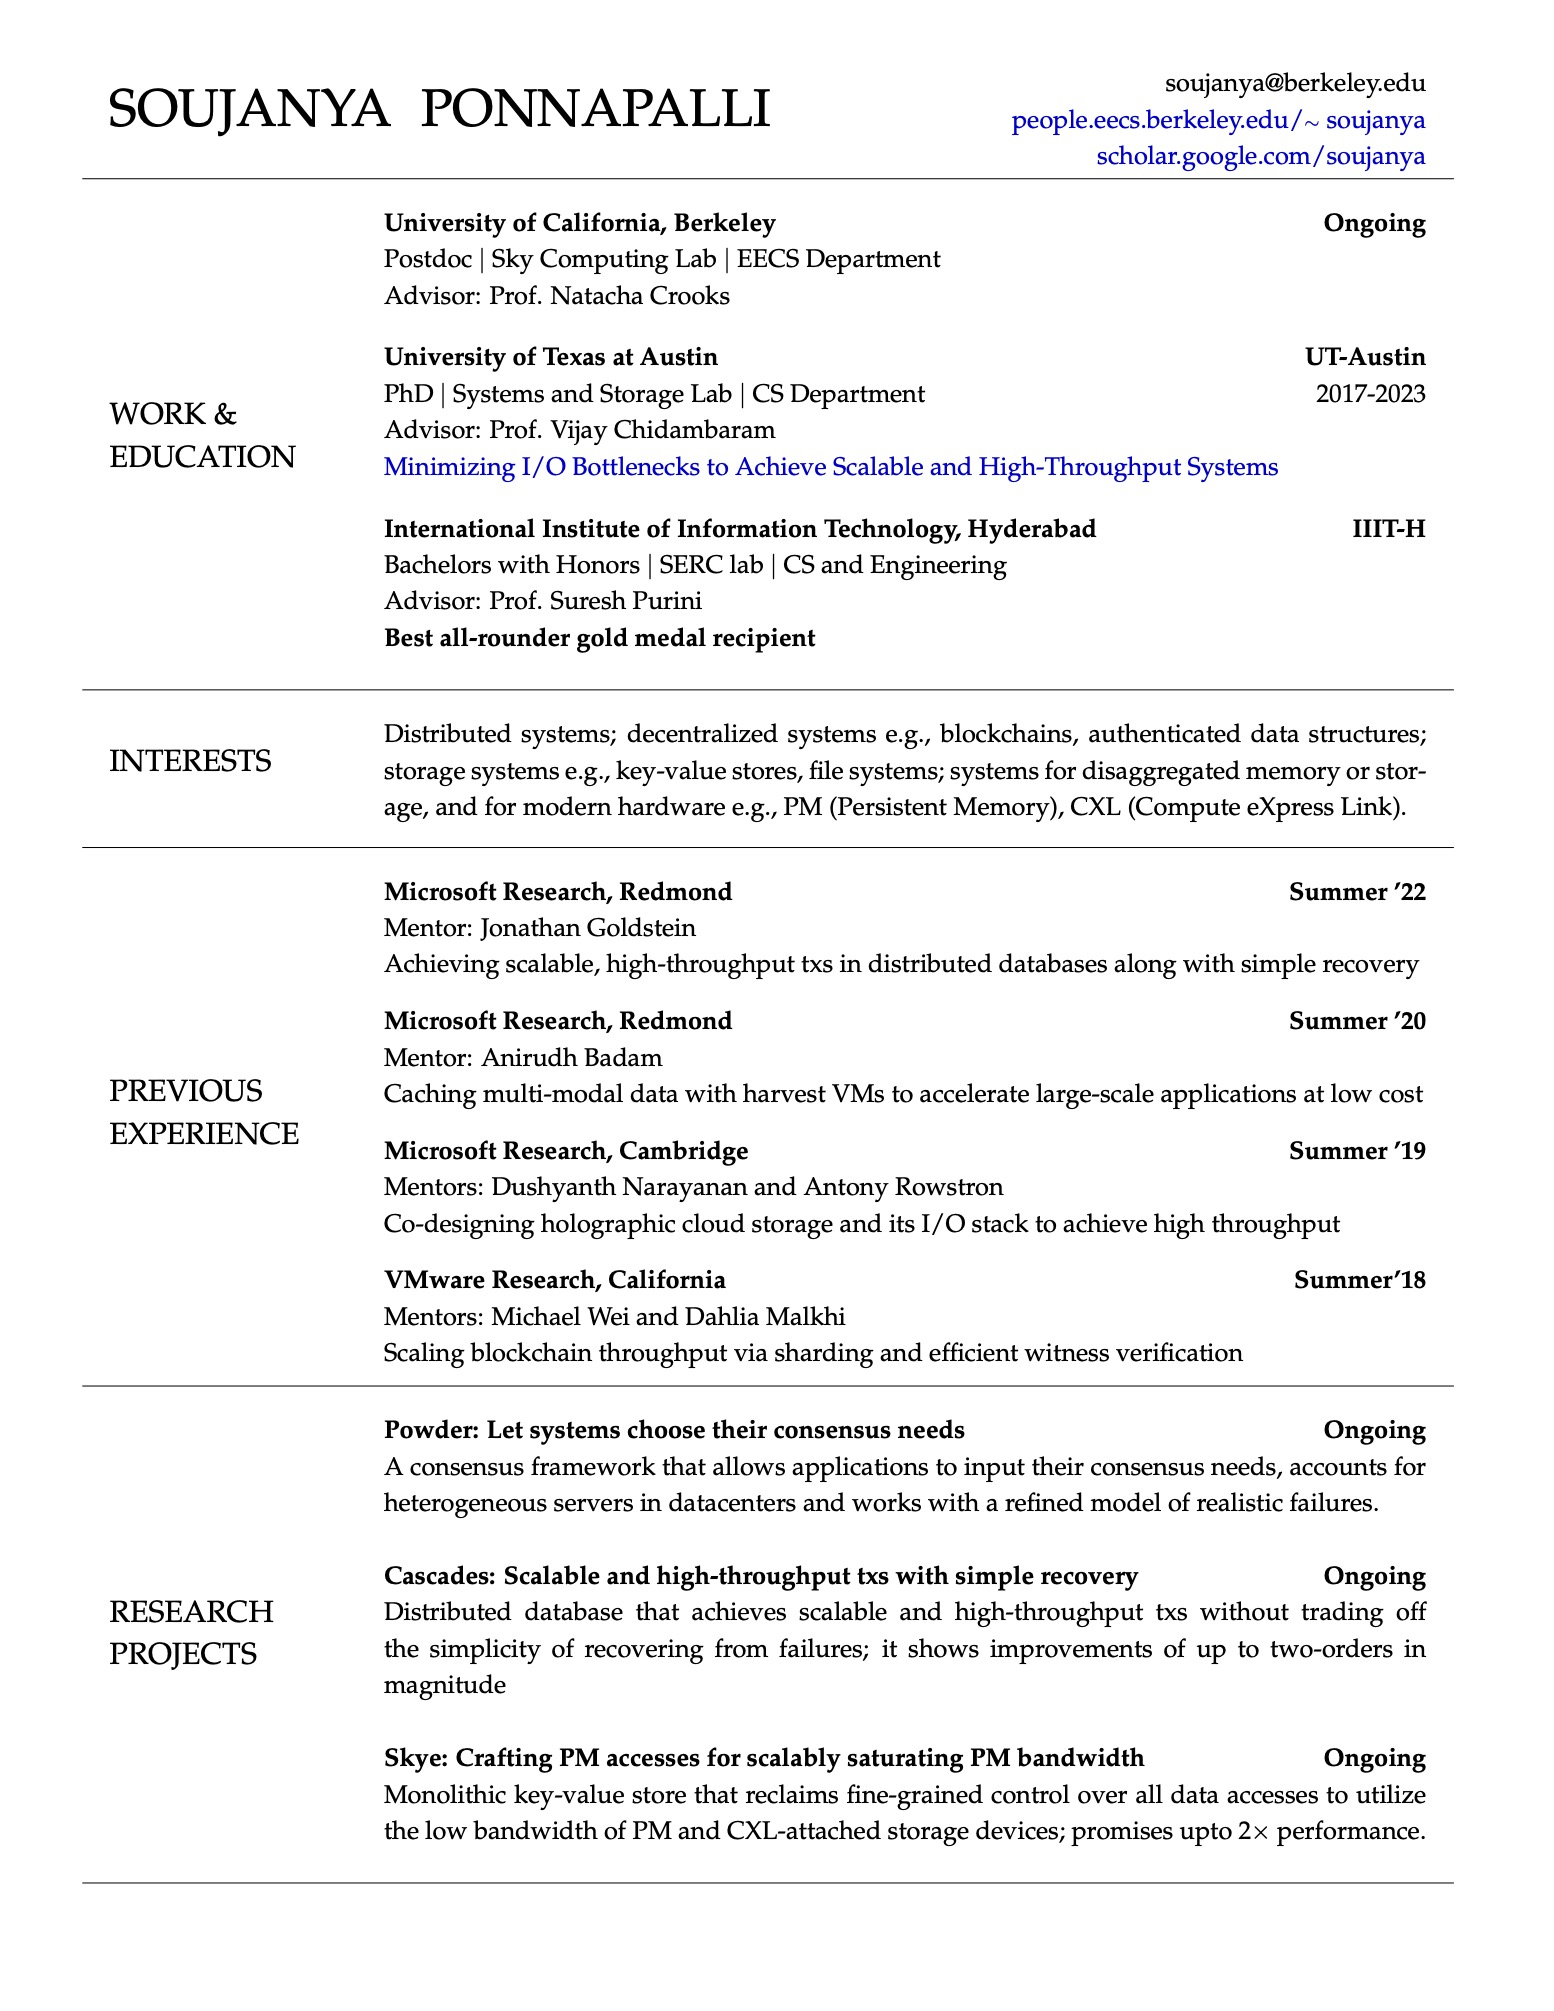
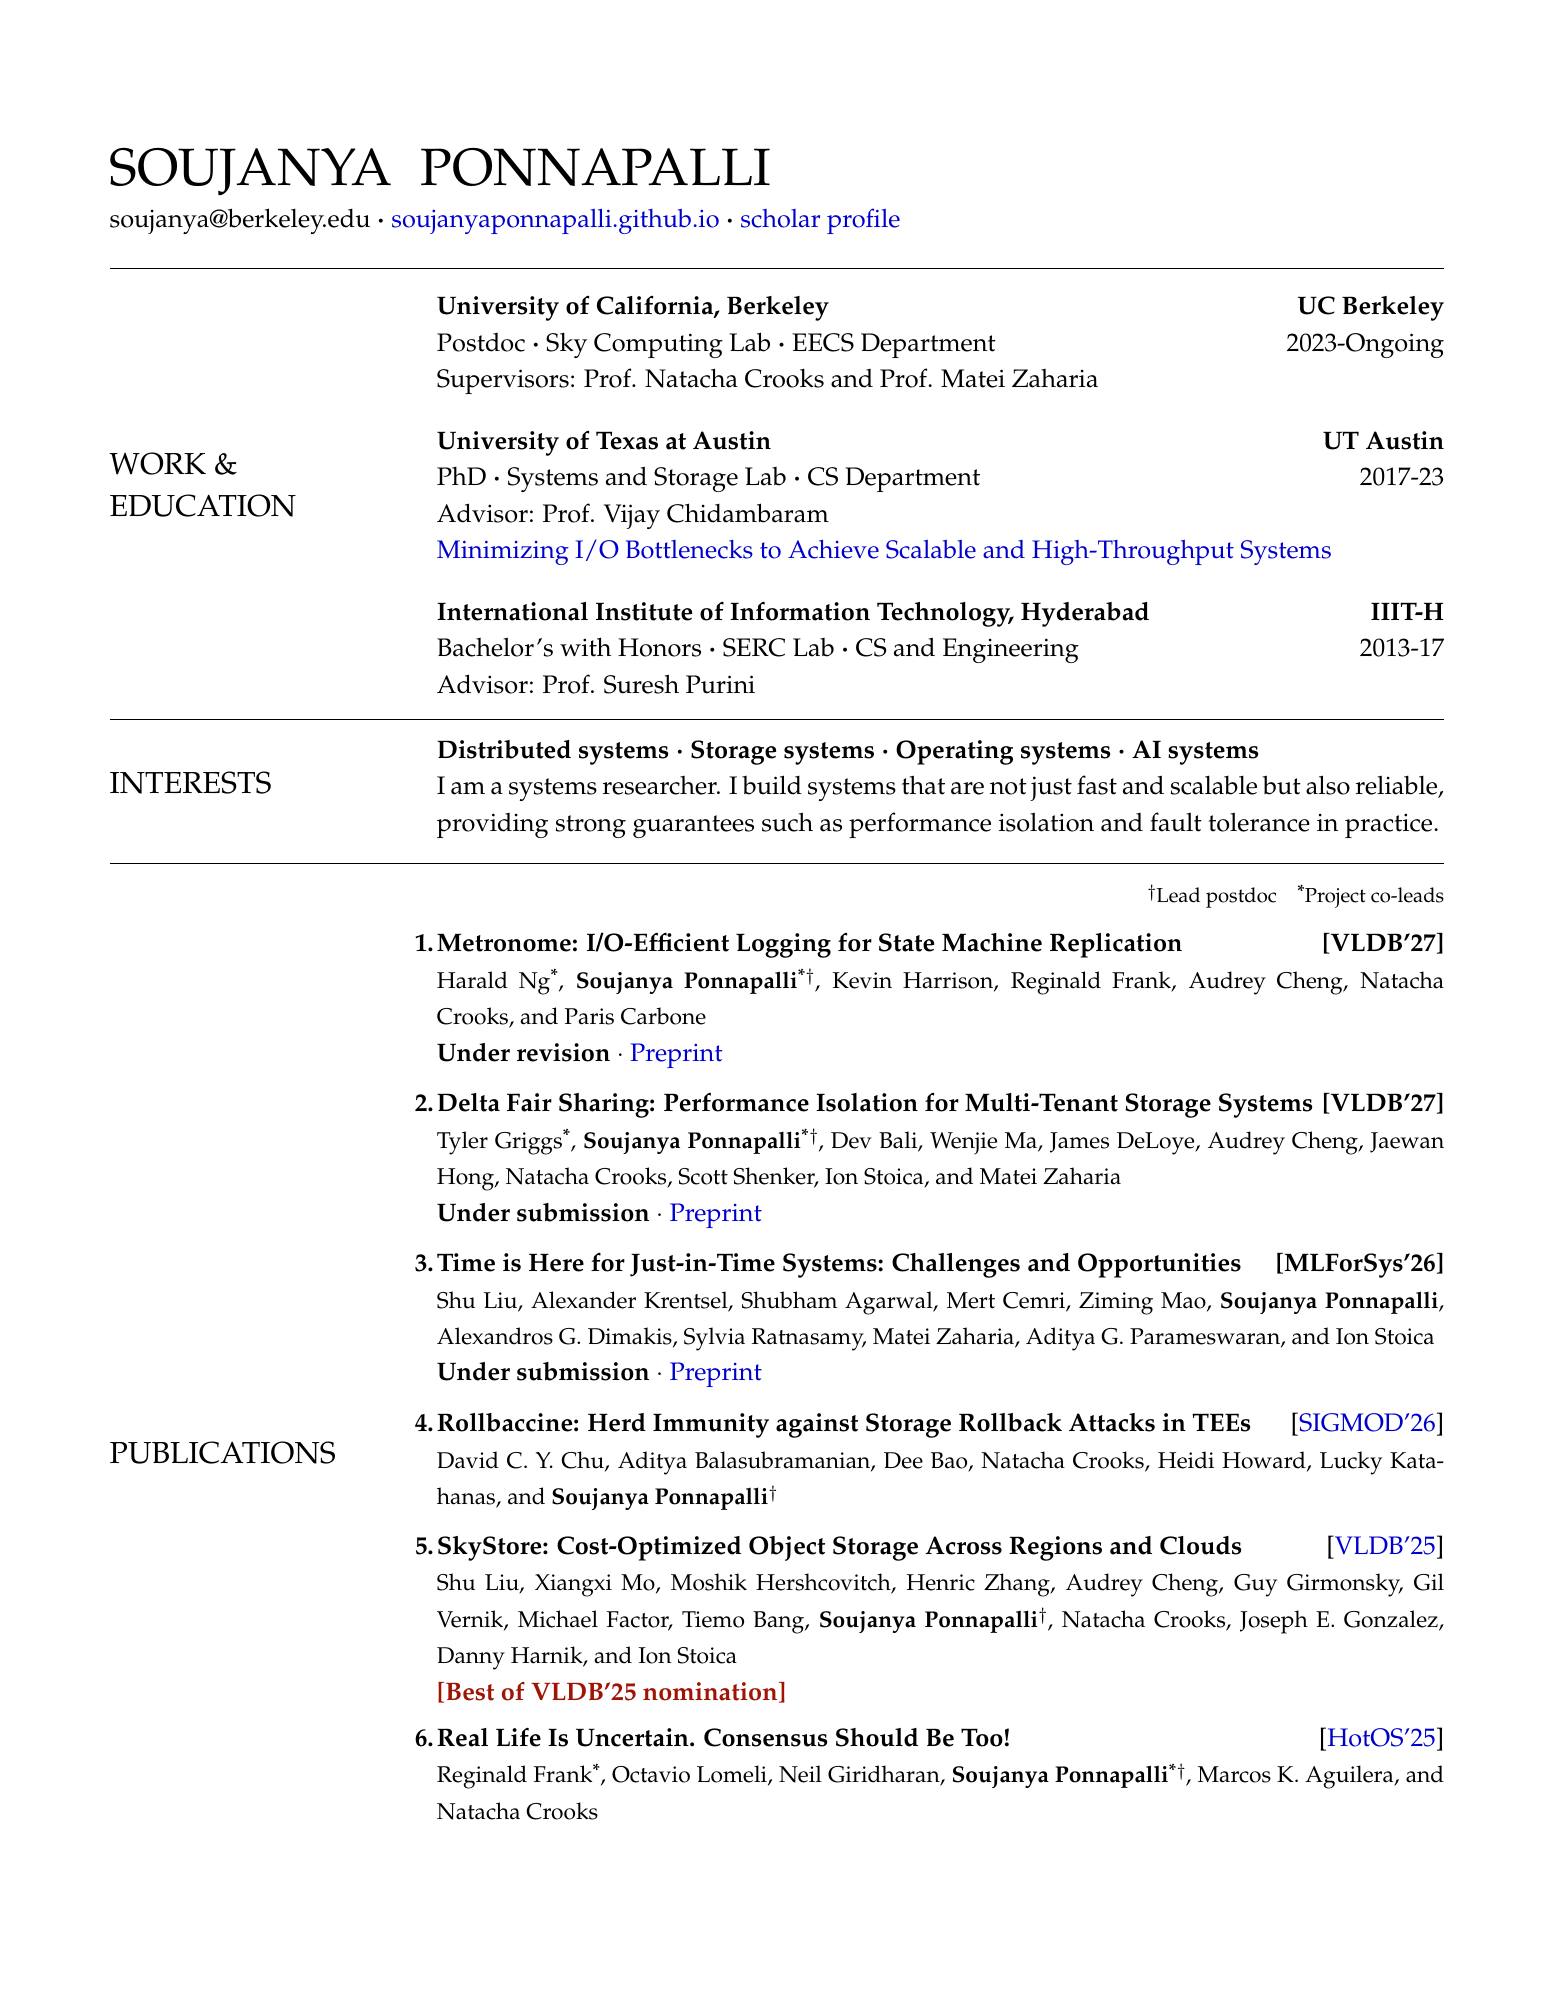
:sparkles: Update CV page images to latest 4-page CV
Regenerate the CV page images from the current cv.pdf, which is now four
pages; the page previously showed three images rendered from an outdated
copy of the CV.

- Re-render cv1-cv3 and add cv4 from cv.pdf at 1554x2012 (matching the
  existing image dimensions, so the page layout is unchanged)
- Show the fourth page, which contains Awards & Grants and References
- Point the download links at {{ base_path }}/cv.pdf (the copy in this
  repo) instead of people.eecs.berkeley.edu, which still serves the older
  three-page CV
- Add alt text and drop a no-op "margin-left=100px" declaration (invalid
  CSS that browsers were already ignoring)

diff --git a/_pages/cv.md b/_pages/cv.md
@@ -9,14 +9,16 @@ redirect_from:
 
 {% include base_path %}
 
-<!-- [CV Download Link!](https://people.eecs.berkeley.edu/~soujanya/cv.pdf) -->
+<!-- [CV Download Link!]({{ base_path }}/cv.pdf) -->
 
-<a href="https://people.eecs.berkeley.edu/~soujanya/cv.pdf" target="_blank">
-<img src="../images/cv1.png" style="width: 50vw;margin-left=100px"> </a>
-<a href="https://people.eecs.berkeley.edu/~soujanya/cv.pdf" target="_blank">
-<img src="../images/cv2.png" style="width: 50vw;margin-left=100px"></a>
-<a href="https://people.eecs.berkeley.edu/~soujanya/cv.pdf" target="_blank">
-<img src="../images/cv3.png" style="width: 50vw;margin-left=100px"></a>
+<a href="{{ base_path }}/cv.pdf" target="_blank">
+<img src="../images/cv1.png" alt="CV page 1" style="width: 50vw;"> </a>
+<a href="{{ base_path }}/cv.pdf" target="_blank">
+<img src="../images/cv2.png" alt="CV page 2" style="width: 50vw;"></a>
+<a href="{{ base_path }}/cv.pdf" target="_blank">
+<img src="../images/cv3.png" alt="CV page 3" style="width: 50vw;"></a>
+<a href="{{ base_path }}/cv.pdf" target="_blank">
+<img src="../images/cv4.png" alt="CV page 4" style="width: 50vw;"></a>
 
 
 <!-- ![Alt text](https://people.eecs.berkeley.edu/~soujanya/cv.pdf#page=1)
